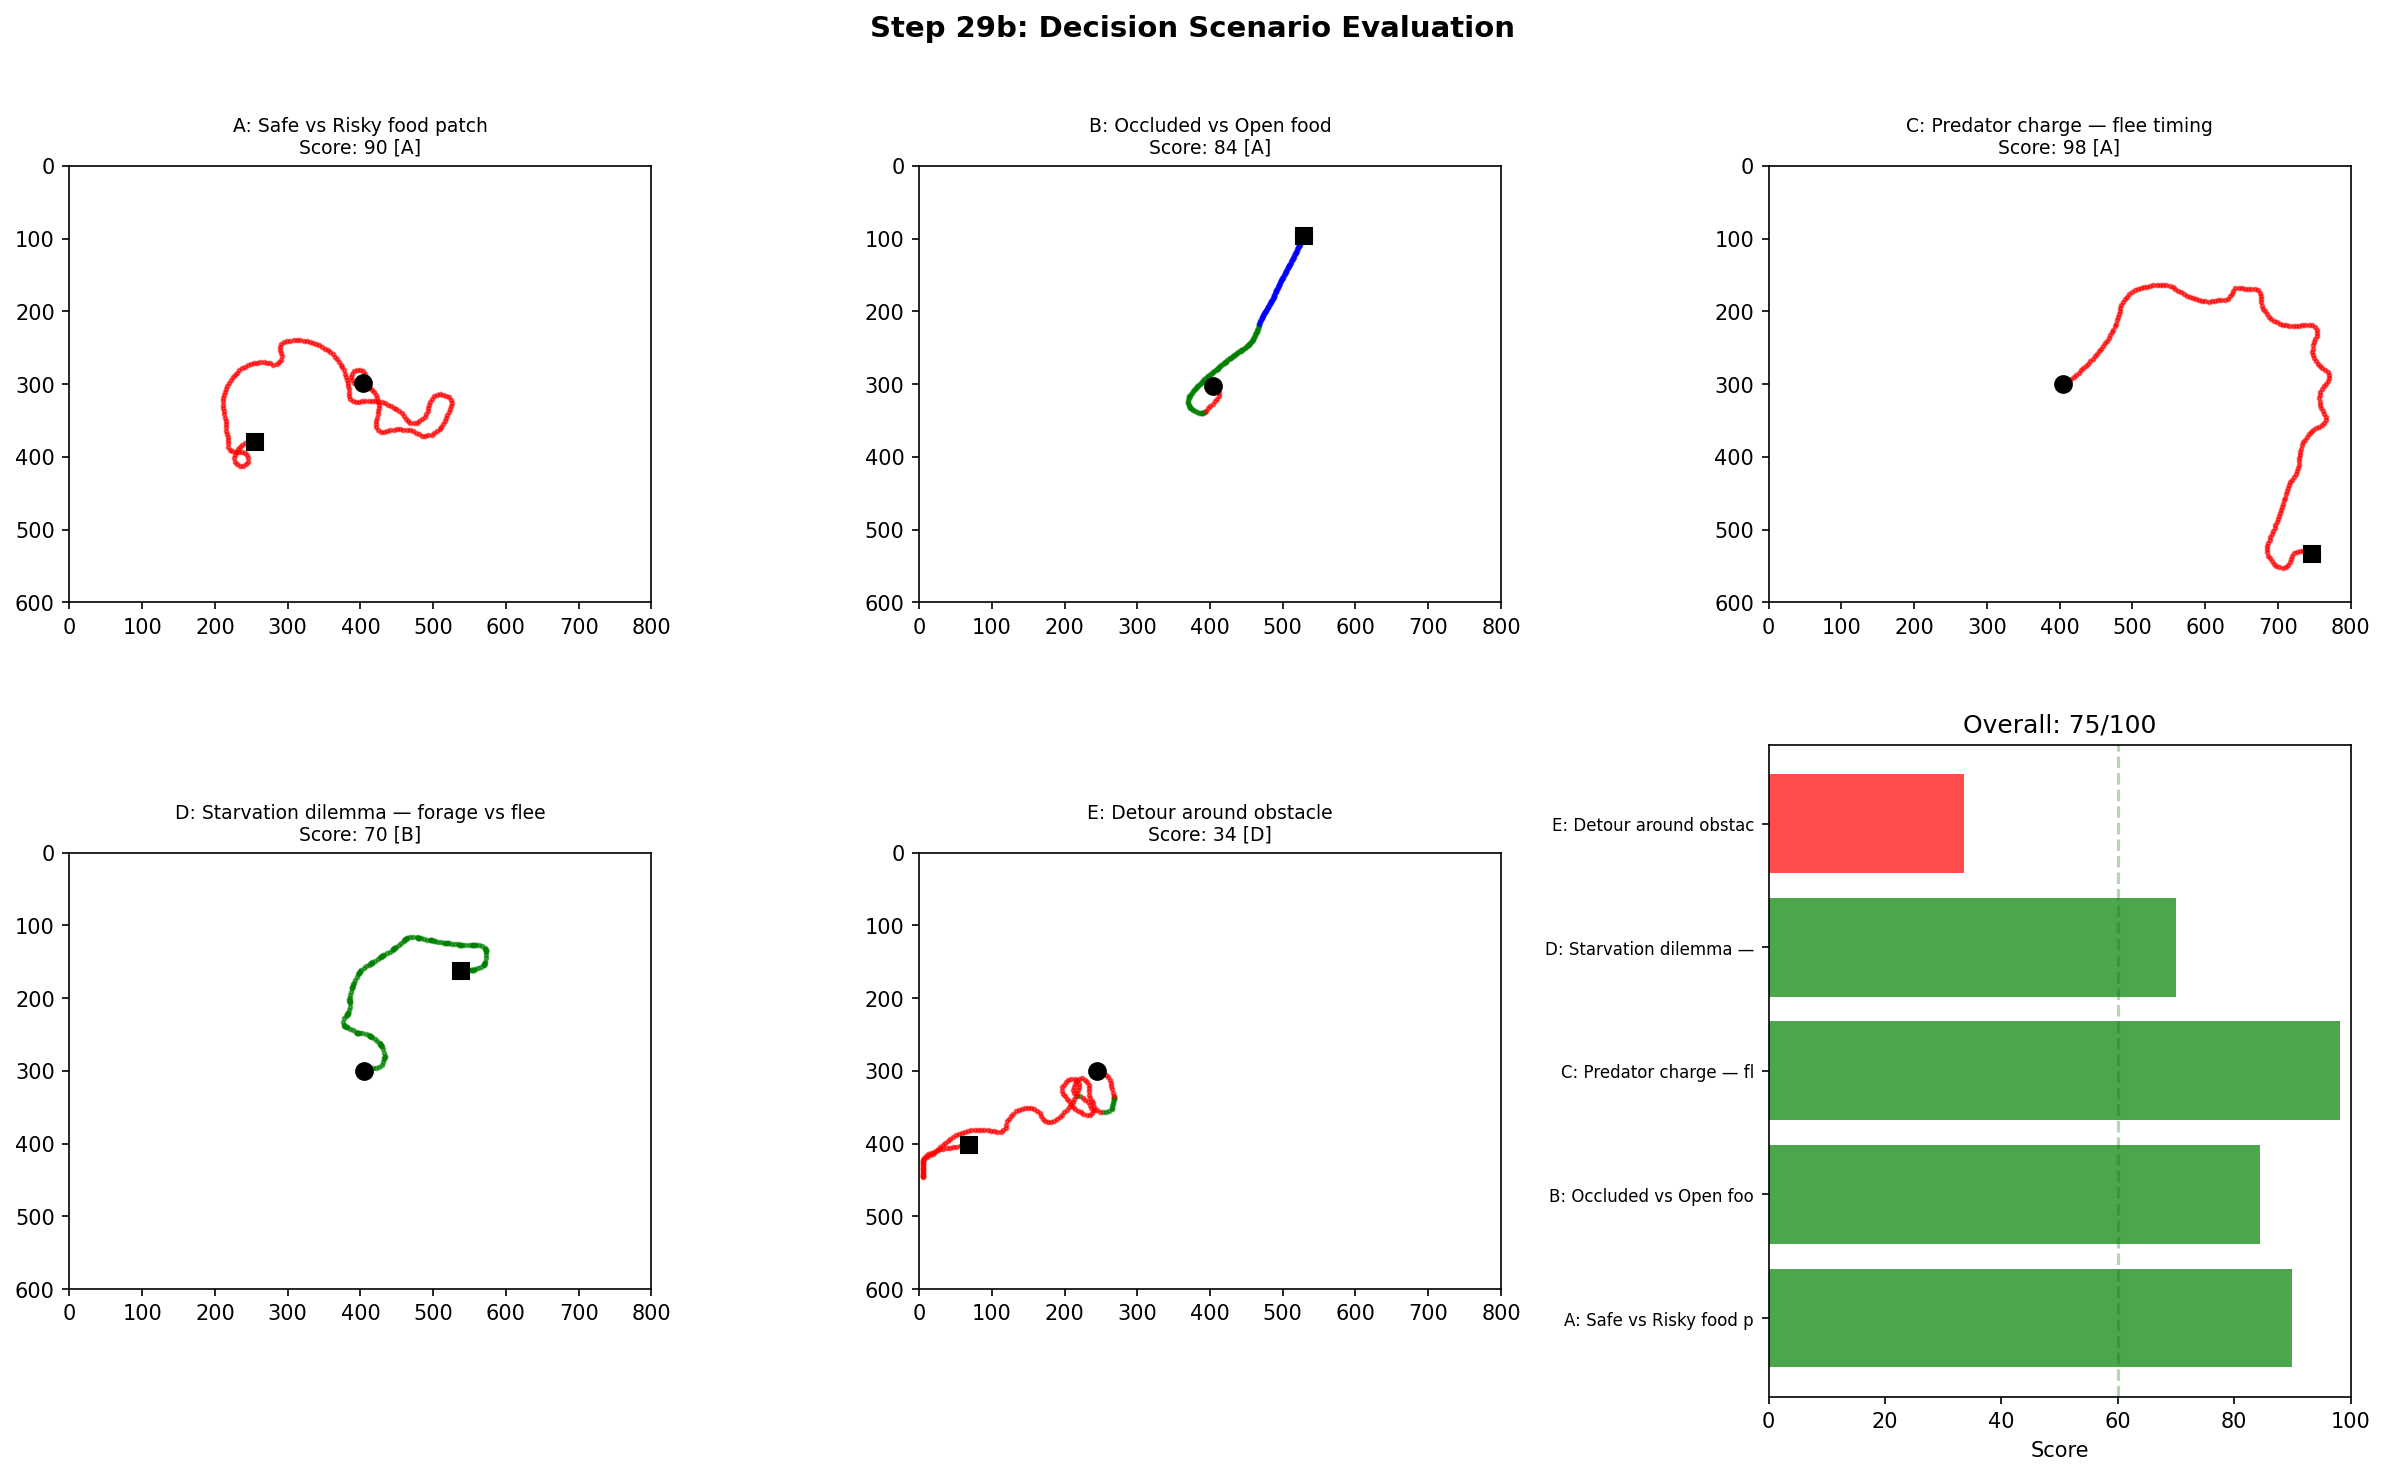
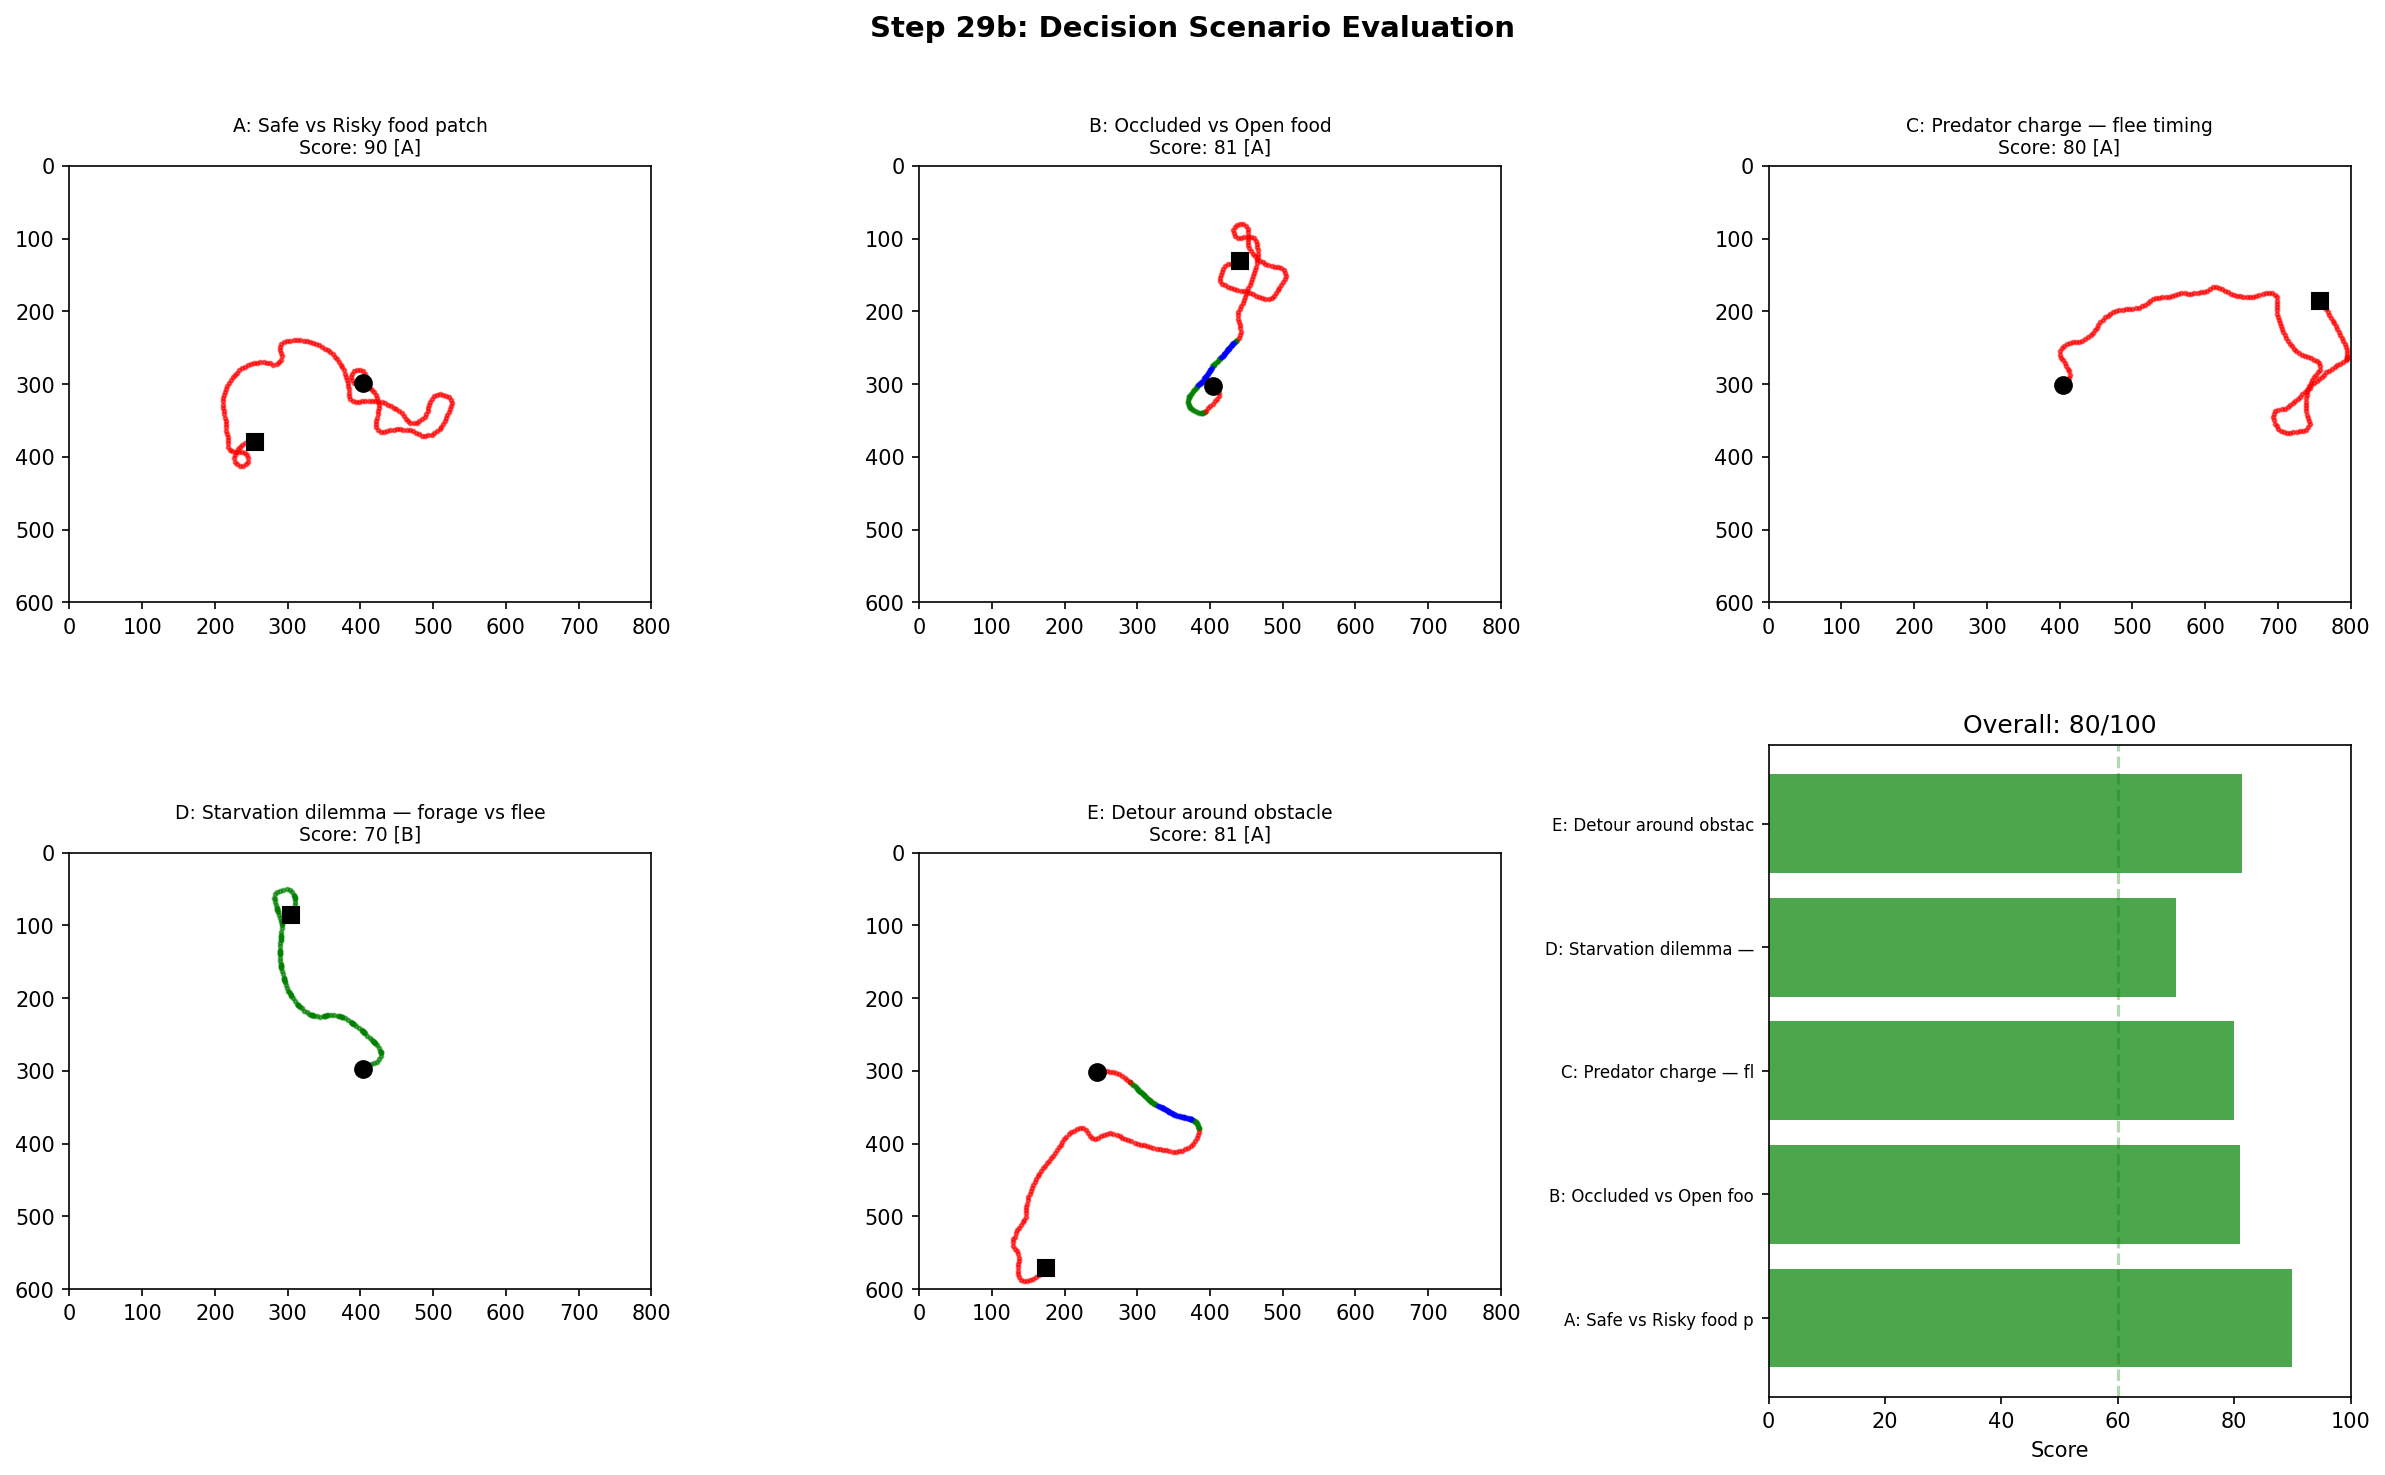
feat: forage-no-progress detour + shape-safe checkpoint loading
- 10d detector: if FORAGE >30 steps with no food eaten and no enemy
  visible → force EXPLORE for 20 steps (obstacle detour behavior)
- Scenario E: 34→81 (food=3, explore%=20%), overall 75→80
- zebrafish_snn.py load_saveable_state: filter shape-mismatched keys
  before load_state_dict to handle cls_hidden size changes gracefully
- All 5 scenarios now grade A/B; results deterministic across runs

diff --git a/zebrav1/gym_env/brain_agent.py b/zebrav1/gym_env/brain_agent.py
@@ -263,6 +263,10 @@ class BrainAgent:
         self._prev_pos = None
         self._obs_stuck_force_explore = False
 
+        # Forage-no-progress detector (Scenario E: detour around obstacles)
+        self._forage_no_progress_steps = 0
+        self._explore_detour_steps = 0
+
         # Looming detector (Feature 3)
         self._prev_enemy_spread = 0.0
         self._looming_l_over_v = 999.0
@@ -1805,6 +1809,26 @@ class BrainAgent:
             effective_goal = GOAL_EXPLORE
             self._stuck_counter = 0  # reset after forcing explore
 
+        # 10d. Forage-no-progress → EXPLORE detour (Scenario E: obstacle detour)
+        # If fish has been trying to forage for >30 steps without eating AND
+        # there is food remaining AND no predator visible → try exploring around
+        _foods_left = len(getattr(env, 'foods', []))
+        _eaten_now = self._eaten_buffer  # updated by update_post_step last step
+        if _eaten_now > 0:
+            self._forage_no_progress_steps = 0
+        elif effective_goal == GOAL_FORAGE and _foods_left > 0 and self._enemy_pixels_total == 0:
+            self._forage_no_progress_steps += 1
+        else:
+            self._forage_no_progress_steps = max(0, self._forage_no_progress_steps - 1)
+
+        if self._explore_detour_steps > 0:
+            effective_goal = GOAL_EXPLORE
+            self._explore_detour_steps -= 1
+        elif self._forage_no_progress_steps > 30:
+            effective_goal = GOAL_EXPLORE
+            self._forage_no_progress_steps = 0
+            self._explore_detour_steps = 20  # stay in EXPLORE for 20 steps
+
         # 11. Goal-conditioned behavior
         approach_gain, speed_mod_brain, explore_mod, turn_strategy = \
             goal_to_behavior(effective_goal, cls_probs, posterior, confidence,
@@ -2839,6 +2863,8 @@ class BrainAgent:
         self._enemy_pixels_L = 0
         self._enemy_pixels_R = 0
         self._patch_visit_counts = {}
+        self._forage_no_progress_steps = 0
+        self._explore_detour_steps = 0
         self._prev_typeL = None
         self._prev_typeR = None
         self._novelty_ema = 0.0

diff --git a/zebrav1/brain/zebrafish_snn.py b/zebrav1/brain/zebrafish_snn.py
@@ -459,10 +459,20 @@ class ZebrafishSNN(nn.Module):
                         remapped[k] = v
                 else:
                     remapped[k] = v
-            self.load_state_dict(remapped, strict=False)
+            state = remapped
             print("[SNN] Migrated old checkpoint → PredictiveTwoComp")
-        else:
-            self.load_state_dict(state, strict=False)
+
+        # Shape-safe loading: skip keys where saved shape differs from current
+        # (handles classifier head size changes across architecture versions)
+        current = self.state_dict()
+        filtered = {k: v for k, v in state.items()
+                    if k in current and v.shape == current[k].shape}
+        skipped = [k for k in state if k in current
+                   and state[k].shape != current[k].shape]
+        if skipped:
+            print(f"[SNN] Skipped {len(skipped)} shape-mismatched keys: "
+                  f"{skipped[:3]}{'...' if len(skipped) > 3 else ''}")
+        self.load_state_dict(filtered, strict=False)
 
     def minimize_pe(self, lr=0.0005):
         """Layer-wise PE minimization: nudge W_FB to reduce |V_a - V_s|².
